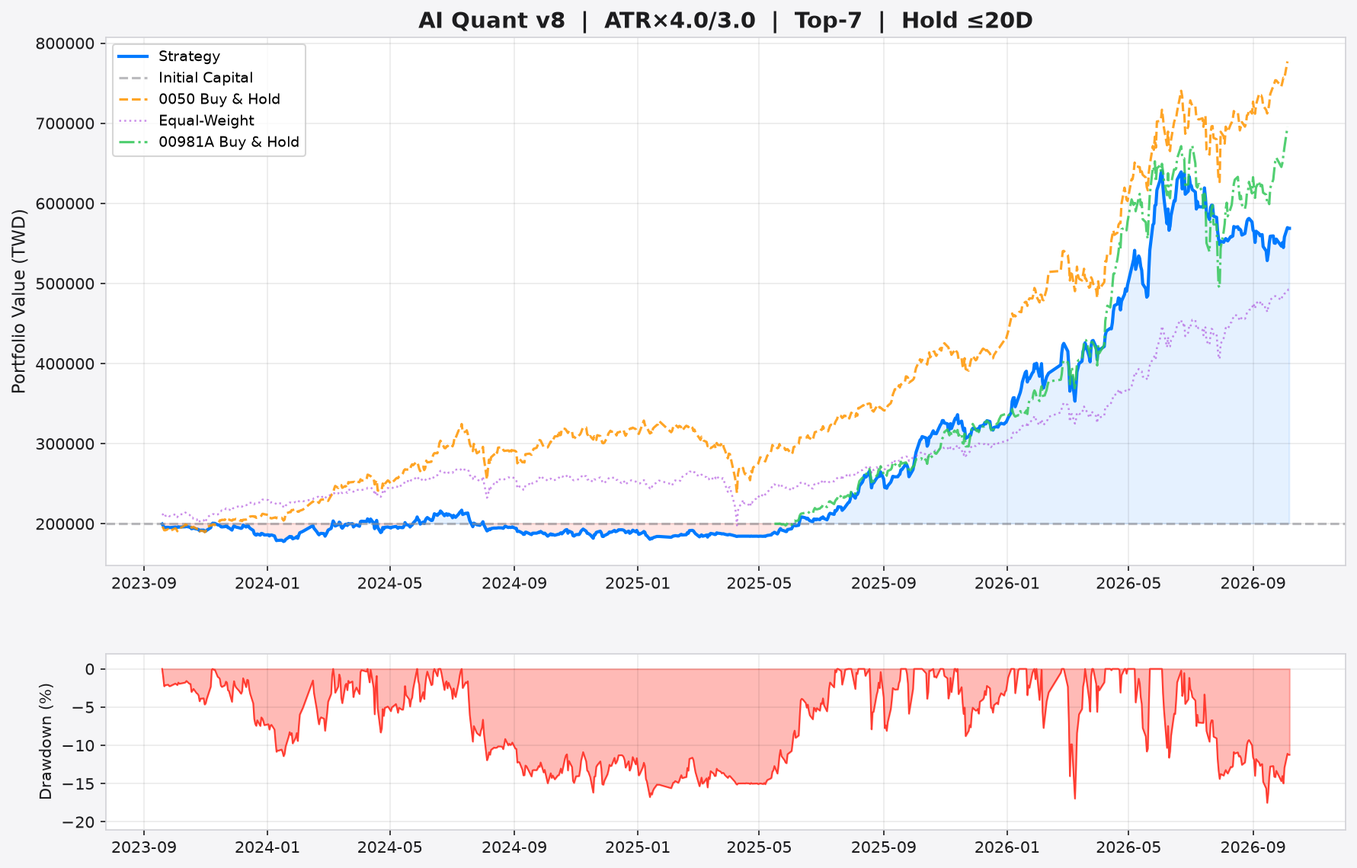
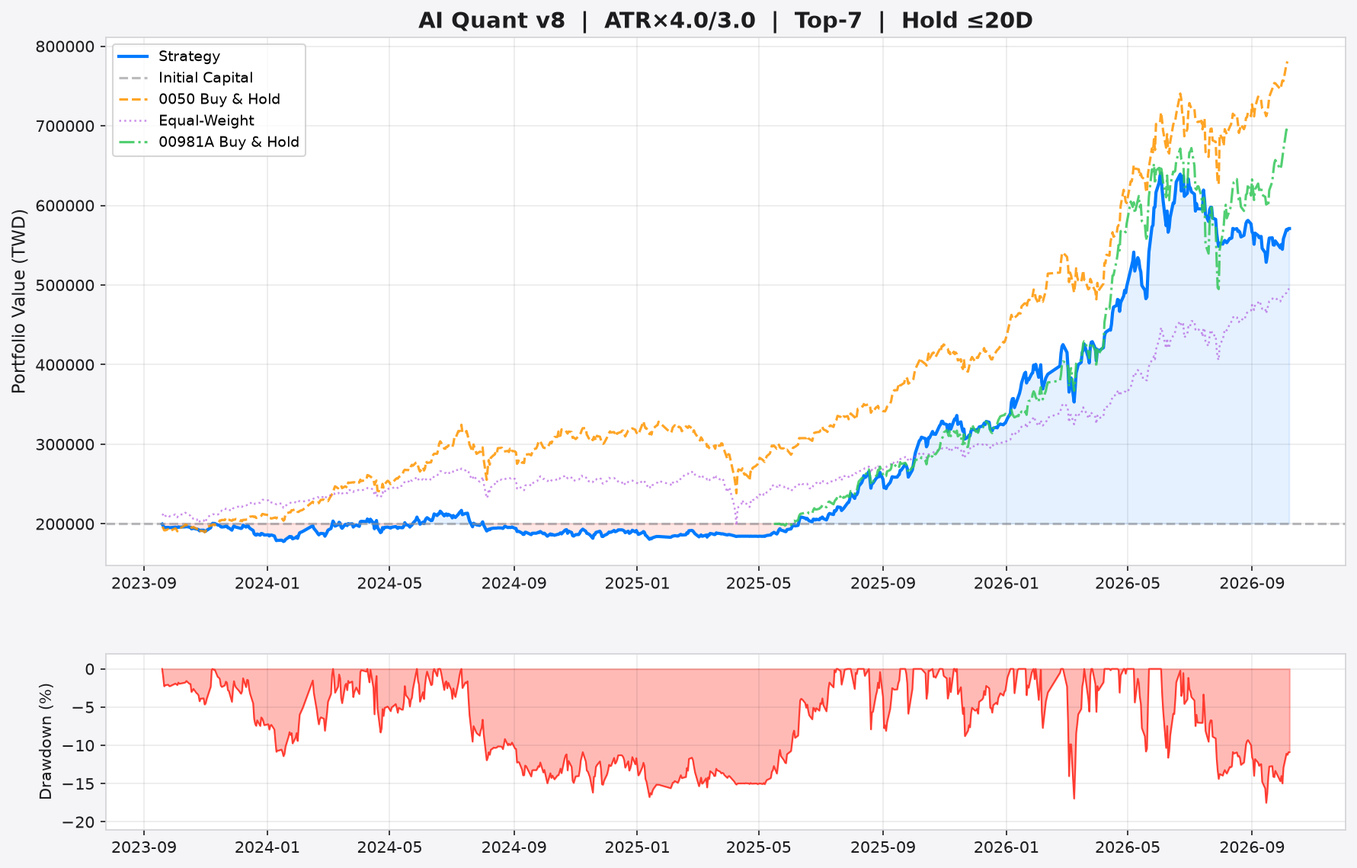
📊 AI Report v8.5 + Paper Trading (2026-10-08)

diff --git a/stock_report.html b/stock_report.html
@@ -3,7 +3,7 @@
 <head>
     <meta charset="utf-8">
     <meta name="viewport" content="width=device-width, initial-scale=1.0">
-    <title>AI 台股量化交易 v8.5 — 2026-10-07</title>
+    <title>AI 台股量化交易 v8.5 — 2026-10-08</title>
     <meta name="description" content="AI 驅動的台股量化交易系統 v8.5，完整風險報告、Benchmark 對比、OCO 智慧掛單建議">
     <script>
         (function() {
@@ -292,7 +292,7 @@
 
     <h1>🎯 AI 台股量化交易 v8.5</h1>
     <p class="subtitle">
-        Event-Driven System &nbsp;|&nbsp; 報表日期: 2026-10-07 &nbsp;|&nbsp;
+        Event-Driven System &nbsp;|&nbsp; 報表日期: 2026-10-08 &nbsp;|&nbsp;
         <span class="config-badge">🛡 ATR×4.0/3.0</span>
         <span class="config-badge">🎯 Top-7</span>
         <span class="config-badge">⏱ 最長 20 天</span>
@@ -303,11 +303,11 @@
     <div class="stats">
         <div class="stat-card">
             <div class="label">策略總報酬率</div>
-            <div class="value" style="color:#00ff00;">+184.4%</div>
+            <div class="value" style="color:#00ff00;">+185.5%</div>
         </div>
         <div class="stat-card">
             <div class="label">年化報酬率</div>
-            <div class="value" style="color:#00ff00;">+42.7%</div>
+            <div class="value" style="color:#00ff00;">+42.9%</div>
         </div>
         <div class="stat-card">
             <div class="label">年化波動率</div>
@@ -315,7 +315,7 @@
         </div>
         <div class="stat-card risk">
             <div class="label">Sharpe Ratio</div>
-            <div class="value" style="color:#00ff00;">1.51</div>
+            <div class="value" style="color:#00ff00;">1.52</div>
         </div>
         <div class="stat-card risk">
             <div class="label">Sortino Ratio</div>
@@ -327,7 +327,7 @@
         </div>
         <div class="stat-card risk">
             <div class="label">Calmar Ratio</div>
-            <div class="value">2.44</div>
+            <div class="value">2.45</div>
         </div>
         <div class="stat-card">
             <div class="label">完成交易數</div>
@@ -370,23 +370,23 @@
             </tr>
         </thead>
         <tbody>
-<tr><td>3443</td><td>4.00</td><td>8375.0</td><td><span style="color:#00ff00; font-weight:bold;">🟢 建議買進 #1</span></td><td><b>停利:</b> <span style="color:#00ff00">9631.2</span> (+15.0%) <br><b>停損:</b> <span style="color:#ff4444">7705.0</span> (-8.0%) <br><b>最晚出場:</b> 2026-11-06</td><td><span style="font-size:0.72rem; color:#888;">歷史 <b>12</b>筆 | 勝率 <b style="color:#00ff00">58%</b> | 均報酬 <b style="color:#00ff00">+2.2%</b></span></td><td><span style="font-size:0.78rem;">⚪ 無資料<br><span style="color:#888; font-weight:bold;">+0.0%</span></span></td><td><span style="font-size:0.78rem;">⚪ 中性</span></td></tr>
-<tr><td>3037</td><td>3.92</td><td>1310.0</td><td><span style="color:#00ff00; font-weight:bold;">🟢 建議買進 #2</span></td><td><b>停利:</b> <span style="color:#00ff00">1506.5</span> (+15.0%) <br><b>停損:</b> <span style="color:#ff4444">1205.2</span> (-8.0%) <br><b>最晚出場:</b> 2026-11-06</td><td><span style="font-size:0.72rem; color:#888;">歷史 <b>13</b>筆 | 勝率 <b style="color:#00ff00">62%</b> | 均報酬 <b style="color:#00ff00">+7.1%</b></span></td><td><span style="font-size:0.78rem;">🟡 小買<br><span style="color:#ffab00; font-weight:bold;">+1.8%</span></span></td><td><span style="font-size:0.78rem;">⚪ 中性</span></td></tr>
-<tr><td>6505</td><td>3.85</td><td>101.5</td><td><span style="color:#00ff00; font-weight:bold;">🟢 建議買進 #3</span></td><td><b>停利:</b> <span style="color:#00ff00">116.7</span> (+15.0%) <br><b>停損:</b> <span style="color:#ff4444">93.4</span> (-8.0%) <br><b>最晚出場:</b> 2026-11-06</td><td><span style="font-size:0.72rem; color:#888;">歷史 <b>3</b>筆 | 勝率 <b style="color:#ff4444">33%</b> | 均報酬 <b style="color:#ff4444">-1.5%</b></span></td><td><span style="font-size:0.78rem;">⚪ 無資料<br><span style="color:#888; font-weight:bold;">+0.0%</span></span></td><td><span style="font-size:0.78rem;">⚪ 中性</span></td></tr>
-<tr><td>1303</td><td>3.83</td><td>293.0</td><td><span style="color:#00ff00; font-weight:bold;">🟢 建議買進 #4</span></td><td><b>停利:</b> <span style="color:#00ff00">336.9</span> (+15.0%) <br><b>停損:</b> <span style="color:#ff4444">269.6</span> (-8.0%) <br><b>最晚出場:</b> 2026-11-06</td><td><span style="font-size:0.72rem; color:#888;">歷史 <b>12</b>筆 | 勝率 <b style="color:#00ff00">75%</b> | 均報酬 <b style="color:#00ff00">+8.5%</b></span></td><td><span style="font-size:0.78rem;">⚪ 無資料<br><span style="color:#888; font-weight:bold;">+0.0%</span></span></td><td><span style="font-size:0.78rem;">⚪ 中性</span></td></tr>
-<tr><td>2404</td><td>3.65</td><td>1335.0</td><td><span style="color:#00ff00; font-weight:bold;">🟢 建議買進 #5</span></td><td><b>停利:</b> <span style="color:#00ff00">1535.2</span> (+15.0%) <br><b>停損:</b> <span style="color:#ff4444">1228.2</span> (-8.0%) <br><b>最晚出場:</b> 2026-11-06</td><td><span style="font-size:0.72rem; color:#888;">歷史 <b>17</b>筆 | 勝率 <b style="color:#00ff00">76%</b> | 均報酬 <b style="color:#00ff00">+5.5%</b></span></td><td><span style="font-size:0.78rem;">🟢 大買<br><span style="color:#00ff00; font-weight:bold;">+2.6%</span></span></td><td><span style="font-size:0.78rem;">⚪ 中性</span></td></tr>
-<tr><td>3529O</td><td>3.62</td><td>3115.0</td><td><span style="color:#00ff00; font-weight:bold;">🟢 建議買進 #6</span></td><td><b>停利:</b> <span style="color:#00ff00">3582.2</span> (+15.0%) <br><b>停損:</b> <span style="color:#ff4444">2865.8</span> (-8.0%) <br><b>最晚出場:</b> 2026-11-06</td><td><span style="font-size:0.72rem; color:#888;">歷史 <b>10</b>筆 | 勝率 <b style="color:#ff4444">40%</b> | 均報酬 <b style="color:#ff4444">-0.4%</b></span></td><td><span style="font-size:0.78rem;">⚪ 無資料<br><span style="color:#888; font-weight:bold;">+0.0%</span></span></td><td><span style="font-size:0.78rem;">⚪ 中性</span></td></tr>
-<tr><td>3711</td><td>3.58</td><td>744.0</td><td><span style="color:#00ff00; font-weight:bold;">🟢 建議買進 #7</span></td><td><b>停利:</b> <span style="color:#00ff00">855.6</span> (+15.0%) <br><b>停損:</b> <span style="color:#ff4444">684.5</span> (-8.0%) <br><b>最晚出場:</b> 2026-11-06</td><td><span style="font-size:0.72rem; color:#888;">歷史 <b>5</b>筆 | 勝率 <b style="color:#00ff00">60%</b> | 均報酬 <b style="color:#00ff00">+0.6%</b></span></td><td><span style="font-size:0.78rem;">🟡 小買<br><span style="color:#ffab00; font-weight:bold;">+1.2%</span></span></td><td><span style="font-size:0.78rem;">⚪ 中性</span></td></tr>
-<tr style="opacity:0.6"><td>3044</td><td>3.53</td><td>579.0</td><td><span style="color:#ffab00">🟡 候選 (超出 Top-K)</span></td><td>-</td><td><span style="font-size:0.72rem; color:#888;">勝率 <b style="color:#00ff00">50%</b></span></td><td><span style="font-size:0.72rem;">⚪ 無資料<br><span style="color:#888">+0.0%</span></span></td><td><span style="font-size:0.72rem;">⚪ 中性</span></td></tr>
-<tr style="opacity:0.6"><td>2368</td><td>3.47</td><td>1260.0</td><td><span style="color:#ffab00">🟡 候選 (超出 Top-K)</span></td><td>-</td><td><span style="font-size:0.72rem; color:#888;">勝率 <b style="color:#ff4444">47%</b></span></td><td><span style="font-size:0.72rem;">🔴 大賣<br><span style="color:#ff4444">-3.3%</span></span></td><td><span style="font-size:0.72rem;">⚪ 中性</span></td></tr>
-<tr style="opacity:0.6"><td>3035</td><td>3.45</td><td>210.5</td><td><span style="color:#ffab00">🟡 候選 (超出 Top-K)</span></td><td>-</td><td><span style="font-size:0.72rem; color:#888;">勝率 <b style="color:#ff4444">0%</b></span></td><td><span style="font-size:0.72rem;">🟢 大買<br><span style="color:#00ff00">+5.0%</span></span></td><td><span style="font-size:0.72rem;">⚪ 中性</span></td></tr>
-<tr style="opacity:0.6"><td>2308</td><td>3.22</td><td>2050.0</td><td><span style="color:#ffab00">🟡 候選 (超出 Top-K)</span></td><td>-</td><td><span style="font-size:0.72rem; color:#888;">勝率 <b style="color:#00ff00">70%</b></span></td><td><span style="font-size:0.72rem;">⚪ 無資料<br><span style="color:#888">+0.0%</span></span></td><td><span style="font-size:0.72rem;">⚪ 中性</span></td></tr>
-<tr style="opacity:0.6"><td>6239</td><td>3.08</td><td>310.5</td><td><span style="color:#ffab00">🟡 候選 (超出 Top-K)</span></td><td>-</td><td><span style="font-size:0.72rem; color:#888;">勝率 <b style="color:#00ff00">55%</b></span></td><td><span style="font-size:0.72rem;">⚪ 無資料<br><span style="color:#888">+0.0%</span></span></td><td><span style="font-size:0.72rem;">⚪ 中性</span></td></tr>
-<tr style="opacity:0.4"><td>2412</td><td>1.98</td><td>145.5</td><td><span style="color:#aaaaaa">⚪ 觀望 (評分不足)</span></td><td>-</td><td>-</td><td style="color:#555">-</td><td style="color:#555">-</td></tr>
-<tr style="opacity:0.4"><td>2303</td><td>1.90</td><td>147.5</td><td><span style="color:#aaaaaa">⚪ 觀望 (評分不足)</span></td><td>-</td><td>-</td><td style="color:#555">-</td><td style="color:#555">-</td></tr>
-<tr style="opacity:0.4"><td>2892</td><td>1.90</td><td>38.5</td><td><span style="color:#aaaaaa">⚪ 觀望 (評分不足)</span></td><td>-</td><td>-</td><td style="color:#555">-</td><td style="color:#555">-</td></tr>
-<tr style="opacity:0.4"><td>1301</td><td>1.87</td><td>68.6</td><td><span style="color:#aaaaaa">⚪ 觀望 (評分不足)</span></td><td>-</td><td>-</td><td style="color:#555">-</td><td style="color:#555">-</td></tr>
-<tr style="opacity:0.4"><td>2883</td><td>1.73</td><td>37.7</td><td><span style="color:#aaaaaa">⚪ 觀望 (評分不足)</span></td><td>-</td><td>-</td><td style="color:#555">-</td><td style="color:#555">-</td></tr>
+<tr><td>3443</td><td>4.00</td><td>8460.0</td><td><span style="color:#00ff00; font-weight:bold;">🟢 建議買進 #1</span></td><td><b>停利:</b> <span style="color:#00ff00">9729.0</span> (+15.0%) <br><b>停損:</b> <span style="color:#ff4444">7783.2</span> (-8.0%) <br><b>最晚出場:</b> 2026-11-09</td><td><span style="font-size:0.72rem; color:#888;">歷史 <b>12</b>筆 | 勝率 <b style="color:#00ff00">58%</b> | 均報酬 <b style="color:#00ff00">+2.2%</b></span></td><td><span style="font-size:0.78rem;">⚪ 無資料<br><span style="color:#888; font-weight:bold;">+0.0%</span></span></td><td><span style="font-size:0.78rem;">⚪ 中性</span></td></tr>
+<tr><td>3037</td><td>3.90</td><td>1305.0</td><td><span style="color:#00ff00; font-weight:bold;">🟢 建議買進 #2</span></td><td><b>停利:</b> <span style="color:#00ff00">1500.7</span> (+15.0%) <br><b>停損:</b> <span style="color:#ff4444">1200.6</span> (-8.0%) <br><b>最晚出場:</b> 2026-11-09</td><td><span style="font-size:0.72rem; color:#888;">歷史 <b>13</b>筆 | 勝率 <b style="color:#00ff00">62%</b> | 均報酬 <b style="color:#00ff00">+7.1%</b></span></td><td><span style="font-size:0.78rem;">🟡 小買<br><span style="color:#ffab00; font-weight:bold;">+1.8%</span></span></td><td><span style="font-size:0.78rem;">⚪ 中性</span></td></tr>
+<tr><td>6505</td><td>3.87</td><td>107.0</td><td><span style="color:#00ff00; font-weight:bold;">🟢 建議買進 #3</span></td><td><b>停利:</b> <span style="color:#00ff00">123.0</span> (+15.0%) <br><b>停損:</b> <span style="color:#ff4444">98.4</span> (-8.0%) <br><b>最晚出場:</b> 2026-11-09</td><td><span style="font-size:0.72rem; color:#888;">歷史 <b>3</b>筆 | 勝率 <b style="color:#ff4444">33%</b> | 均報酬 <b style="color:#ff4444">-1.5%</b></span></td><td><span style="font-size:0.78rem;">⚪ 無資料<br><span style="color:#888; font-weight:bold;">+0.0%</span></span></td><td><span style="font-size:0.78rem;">⚪ 中性</span></td></tr>
+<tr><td>1303</td><td>3.83</td><td>314.0</td><td><span style="color:#00ff00; font-weight:bold;">🟢 建議買進 #4</span></td><td><b>停利:</b> <span style="color:#00ff00">361.1</span> (+15.0%) <br><b>停損:</b> <span style="color:#ff4444">288.9</span> (-8.0%) <br><b>最晚出場:</b> 2026-11-09</td><td><span style="font-size:0.72rem; color:#888;">歷史 <b>12</b>筆 | 勝率 <b style="color:#00ff00">75%</b> | 均報酬 <b style="color:#00ff00">+8.5%</b></span></td><td><span style="font-size:0.78rem;">⚪ 無資料<br><span style="color:#888; font-weight:bold;">+0.0%</span></span></td><td><span style="font-size:0.78rem;">⚪ 中性</span></td></tr>
+<tr><td>3044</td><td>3.68</td><td>582.0</td><td><span style="color:#00ff00; font-weight:bold;">🟢 建議買進 #5</span></td><td><b>停利:</b> <span style="color:#00ff00">669.3</span> (+15.0%) <br><b>停損:</b> <span style="color:#ff4444">535.4</span> (-8.0%) <br><b>最晚出場:</b> 2026-11-09</td><td><span style="font-size:0.72rem; color:#888;">歷史 <b>4</b>筆 | 勝率 <b style="color:#00ff00">50%</b> | 均報酬 <b style="color:#ff4444">-0.4%</b></span></td><td><span style="font-size:0.78rem;">⚪ 無資料<br><span style="color:#888; font-weight:bold;">+0.0%</span></span></td><td><span style="font-size:0.78rem;">⚪ 中性</span></td></tr>
+<tr><td>2404</td><td>3.67</td><td>1330.0</td><td><span style="color:#00ff00; font-weight:bold;">🟢 建議買進 #6</span></td><td><b>停利:</b> <span style="color:#00ff00">1529.5</span> (+15.0%) <br><b>停損:</b> <span style="color:#ff4444">1223.6</span> (-8.0%) <br><b>最晚出場:</b> 2026-11-09</td><td><span style="font-size:0.72rem; color:#888;">歷史 <b>17</b>筆 | 勝率 <b style="color:#00ff00">76%</b> | 均報酬 <b style="color:#00ff00">+5.5%</b></span></td><td><span style="font-size:0.78rem;">🟢 大買<br><span style="color:#00ff00; font-weight:bold;">+2.6%</span></span></td><td><span style="font-size:0.78rem;">⚪ 中性</span></td></tr>
+<tr><td>3711</td><td>3.50</td><td>732.0</td><td><span style="color:#00ff00; font-weight:bold;">🟢 建議買進 #7</span></td><td><b>停利:</b> <span style="color:#00ff00">841.8</span> (+15.0%) <br><b>停損:</b> <span style="color:#ff4444">673.4</span> (-8.0%) <br><b>最晚出場:</b> 2026-11-09</td><td><span style="font-size:0.72rem; color:#888;">歷史 <b>5</b>筆 | 勝率 <b style="color:#00ff00">60%</b> | 均報酬 <b style="color:#00ff00">+0.6%</b></span></td><td><span style="font-size:0.78rem;">🟡 小買<br><span style="color:#ffab00; font-weight:bold;">+1.2%</span></span></td><td><span style="font-size:0.78rem;">⚪ 中性</span></td></tr>
+<tr style="opacity:0.6"><td>1301</td><td>3.50</td><td>75.4</td><td><span style="color:#ffab00">🟡 候選 (超出 Top-K)</span></td><td>-</td><td><span style="font-size:0.72rem; color:#888;">勝率 <b style="color:#ff4444">0%</b></span></td><td><span style="font-size:0.72rem;">⚪ 無資料<br><span style="color:#888">+0.0%</span></span></td><td><span style="font-size:0.72rem;">⚪ 中性</span></td></tr>
+<tr style="opacity:0.6"><td>3035</td><td>3.48</td><td>209.0</td><td><span style="color:#ffab00">🟡 候選 (超出 Top-K)</span></td><td>-</td><td><span style="font-size:0.72rem; color:#888;">勝率 <b style="color:#ff4444">0%</b></span></td><td><span style="font-size:0.72rem;">🟢 大買<br><span style="color:#00ff00">+5.0%</span></span></td><td><span style="font-size:0.72rem;">⚪ 中性</span></td></tr>
+<tr style="opacity:0.6"><td>2368</td><td>3.47</td><td>1245.0</td><td><span style="color:#ffab00">🟡 候選 (超出 Top-K)</span></td><td>-</td><td><span style="font-size:0.72rem; color:#888;">勝率 <b style="color:#ff4444">47%</b></span></td><td><span style="font-size:0.72rem;">🔴 大賣<br><span style="color:#ff4444">-3.3%</span></span></td><td><span style="font-size:0.72rem;">⚪ 中性</span></td></tr>
+<tr style="opacity:0.6"><td>2327</td><td>3.05</td><td>647.0</td><td><span style="color:#ffab00">🟡 候選 (超出 Top-K)</span></td><td>-</td><td><span style="font-size:0.72rem; color:#888;">勝率 <b style="color:#00ff00">70%</b></span></td><td><span style="font-size:0.72rem;">🟡 小買<br><span style="color:#888">+1.2%</span></span></td><td><span style="font-size:0.72rem;">⚪ 中性</span></td></tr>
+<tr style="opacity:0.6"><td>2449</td><td>2.97</td><td>299.5</td><td><span style="color:#ffab00">🟡 候選 (超出 Top-K)</span></td><td>-</td><td><span style="font-size:0.72rem; color:#888;">勝率 <b style="color:#00ff00">50%</b></span></td><td><span style="font-size:0.72rem;">🟡 小買<br><span style="color:#888">+1.4%</span></span></td><td><span style="font-size:0.72rem;">⚪ 中性</span></td></tr>
+<tr style="opacity:0.4"><td>2379</td><td>1.93</td><td>741.0</td><td><span style="color:#aaaaaa">⚪ 觀望 (評分不足)</span></td><td>-</td><td>-</td><td style="color:#555">-</td><td style="color:#555">-</td></tr>
+<tr style="opacity:0.4"><td>2454</td><td>1.92</td><td>4835.0</td><td><span style="color:#aaaaaa">⚪ 觀望 (評分不足)</span></td><td>-</td><td>-</td><td style="color:#555">-</td><td style="color:#555">-</td></tr>
+<tr style="opacity:0.4"><td>2412</td><td>1.77</td><td>145.5</td><td><span style="color:#aaaaaa">⚪ 觀望 (評分不足)</span></td><td>-</td><td>-</td><td style="color:#555">-</td><td style="color:#555">-</td></tr>
+<tr style="opacity:0.4"><td>2892</td><td>1.72</td><td>38.9</td><td><span style="color:#aaaaaa">⚪ 觀望 (評分不足)</span></td><td>-</td><td>-</td><td style="color:#555">-</td><td style="color:#555">-</td></tr>
+<tr style="opacity:0.4"><td>2609</td><td>1.65</td><td>59.1</td><td><span style="color:#aaaaaa">⚪ 觀望 (評分不足)</span></td><td>-</td><td>-</td><td style="color:#555">-</td><td style="color:#555">-</td></tr>
 
         </tbody>
     </table>
@@ -461,7 +461,7 @@
     <div class="stats">
         <div class="stat-card benchmark">
             <div class="label">0050 年化報酬</div>
-            <div class="value">+53.4%</div>
+            <div class="value">+53.6%</div>
         </div>
         <div class="stat-card benchmark">
             <div class="label">0050 最大回撤</div>
@@ -469,7 +469,7 @@
         </div>
         <div class="stat-card benchmark">
             <div class="label">0050 Sharpe</div>
-            <div class="value">1.83</div>
+            <div class="value">1.84</div>
         </div>
         <div class="stat-card" style="border-left-color:#ff4444">
             <div class="label">超額年化報酬 (α)</div>
@@ -480,7 +480,7 @@
     <div class="stats">
         <div class="stat-card benchmark">
             <div class="label">00981A 年化報酬</div>
-            <div class="value">+151.1%</div>
+            <div class="value">+150.2%</div>
         </div>
         <div class="stat-card benchmark">
             <div class="label">00981A 最大回撤</div>
@@ -488,11 +488,11 @@
         </div>
         <div class="stat-card benchmark">
             <div class="label">00981A Sharpe</div>
-            <div class="value">2.80</div>
+            <div class="value">2.79</div>
         </div>
         <div class="stat-card" style="border-left-color:#ff4444">
             <div class="label">超額 vs 00981A (共存期)</div>
-            <div class="value" style="color:#ff4444">-46.9%</div>
+            <div class="value" style="color:#ff4444">-46.8%</div>
         </div>
     </div>
     <img src="backtest_chart.png" alt="AI Quantitative Backtest Equity Curve with Benchmark">
@@ -507,19 +507,19 @@
         </div>
         <div class="stat-card benchmark">
             <div class="label">0050 近 5 日</div>
-            <div class="value" style="color:#00ff00">+4.2%</div>
+            <div class="value" style="color:#00ff00">+4.0%</div>
         </div>
         <div class="stat-card benchmark">
             <div class="label">0050 近 20 日</div>
-            <div class="value" style="color:#00ff00">+7.5%</div>
+            <div class="value" style="color:#00ff00">+6.0%</div>
         </div>
         <div class="stat-card benchmark">
             <div class="label">0050 近 60 日</div>
-            <div class="value" style="color:#00ff00">+10.3%</div>
+            <div class="value" style="color:#00ff00">+10.6%</div>
         </div>
         <div class="stat-card risk">
             <div class="label">市場波動率 (20D)</div>
-            <div class="value">16.9%</div>
+            <div class="value">16.3%</div>
         </div>
     </div>
 
@@ -529,7 +529,7 @@
     <div class="stats">
         <div class="stat-card risk">
             <div class="label">目前回撤</div>
-            <div class="value" style="color:#ff4444">-11.2%</div>
+            <div class="value" style="color:#ff4444">-10.9%</div>
         </div>
         <div class="stat-card">
             <div class="label">權益最高點</div>
@@ -543,7 +543,7 @@
     <table>
         <thead><tr><th>#</th><th>開始日</th><th>恢復日</th><th>最大深度</th><th>持續天數</th></tr></thead>
         <tbody>
-<tr><td>#1</td><td>2026-06-23</td><td>2026-10-07</td><td style="color:#ff4444; font-weight:bold">-17.5%</td><td>106 天</td></tr>
+<tr><td>#1</td><td>2026-06-23</td><td>2026-10-08</td><td style="color:#ff4444; font-weight:bold">-17.5%</td><td>107 天</td></tr>
 <tr><td>#2</td><td>2026-03-02</td><td>2026-03-19</td><td style="color:#ff4444; font-weight:bold">-17.0%</td><td>17 天</td></tr>
 <tr><td>#3</td><td>2024-07-12</td><td>2025-07-15</td><td style="color:#ff4444; font-weight:bold">-16.8%</td><td>368 天</td></tr>
 <tr><td>#4</td><td>2026-06-04</td><td>2026-06-22</td><td style="color:#ff4444; font-weight:bold">-11.6%</td><td>18 天</td></tr>
@@ -558,7 +558,7 @@
     <div class="stats">
         <div class="stat-card" style="border-left-color:#ff4444">
             <div class="label">近 60 日 Sharpe</div>
-            <div class="value" style="color:#ff4444">-0.71</div>
+            <div class="value" style="color:#ff4444">-0.65</div>
         </div>
         <div class="stat-card">
             <div class="label">歷史平均 Sharpe</div>
@@ -723,7 +723,7 @@
 <tr style="background:rgba(255,68,68,0.30)"><td>2026-07</td><td style="color:#ff4444; font-weight:bold">-12.7%</td></tr>
 <tr style="background:rgba(0,255,0,0.13)"><td>2026-08</td><td style="color:#00ff00; font-weight:bold">+4.4%</td></tr>
 <tr style="background:rgba(255,68,68,0.13)"><td>2026-09</td><td style="color:#ff4444; font-weight:bold">-4.5%</td></tr>
-<tr style="background:rgba(0,255,0,0.10)"><td>2026-10</td><td style="color:#00ff00; font-weight:bold">+3.2%</td></tr>
+<tr style="background:rgba(0,255,0,0.11)"><td>2026-10</td><td style="color:#00ff00; font-weight:bold">+3.6%</td></tr>
 
         </tbody>
     </table>

diff --git a/paper_trading.html b/paper_trading.html
@@ -3,7 +3,7 @@
 <head>
     <meta charset="utf-8">
     <meta name="viewport" content="width=device-width, initial-scale=1.0">
-    <title>Paper Trading v8.5 — 2026-10-07</title>
+    <title>Paper Trading v8.5 — 2026-10-08</title>
     <meta name="description" content="TW Stocker v8.5 Paper Trading 實時績效追蹤">
     <script src="https://cdn.jsdelivr.net/npm/chart.js@4"></script>
     <style>
@@ -92,21 +92,21 @@
     <h1>📈 Paper Trading v8.5</h1>
     <p class="subtitle">
         <span class="badge badge-live">● LIVE</span>
-        起始日 2026-04-22 | 更新 2026-10-07 | 初始資金 200,000 | 保留本金 10%，其餘投入
+        起始日 2026-04-22 | 更新 2026-10-08 | 初始資金 200,000 | 保留本金 10%，其餘投入
     </p>
 
     <div class="metrics">
         <div class="metric">
             <div class="label">總權益</div>
-            <div class="value green">254,048</div>
+            <div class="value green">259,636</div>
         </div>
         <div class="metric">
             <div class="label">總報酬</div>
-            <div class="value green">+27.0%</div>
+            <div class="value green">+29.8%</div>
         </div>
         <div class="metric">
             <div class="label">年化報酬</div>
-            <div class="value green">+58.2%</div>
+            <div class="value green">+63.7%</div>
         </div>
         <div class="metric">
             <div class="label">最大回撤</div>
@@ -146,7 +146,7 @@
             <td>43.5</td>
             <td>34.8</td>
             <td>2026-09-15</td>
-            <td>16天</td>
+            <td>17天</td>
         </tr>
         <tr>
             <td><b>3443</b></td>
@@ -154,7 +154,7 @@
             <td>10208.0</td>
             <td>7262.8</td>
             <td>2026-09-29</td>
-            <td>6天</td>
+            <td>7天</td>
         </tr>
         <tr>
             <td><b>2454</b></td>
@@ -162,7 +162,7 @@
             <td>6209.0</td>
             <td>4592.0</td>
             <td>2026-09-29</td>
-            <td>6天</td>
+            <td>7天</td>
         </tr>
         <tr>
             <td><b>2303</b></td>
@@ -170,7 +170,7 @@
             <td>182.6</td>
             <td>131.7</td>
             <td>2026-09-30</td>
-            <td>5天</td>
+            <td>6天</td>
         </tr>
         <tr>
             <td><b>3037</b></td>
@@ -178,7 +178,7 @@
             <td>1558.4</td>
             <td>1150.0</td>
             <td>2026-10-06</td>
-            <td>1天</td>
+            <td>2天</td>
         </tr>
         <tr>
             <td><b>1303</b></td>
@@ -186,7 +186,7 @@
             <td>328.9</td>
             <td>263.1</td>
             <td>2026-10-07</td>
-            <td>0天</td>
+            <td>1天</td>
         </tr>
         <tr>
             <td><b>6505</b></td>
@@ -194,7 +194,7 @@
             <td>113.4</td>
             <td>90.7</td>
             <td>2026-10-07</td>
-            <td>0天</td>
+            <td>1天</td>
         </tr>
         </table>
     </div>
@@ -206,52 +206,52 @@
             
         <tr>
             <td><b>3443</b></td>
-            <td>8375.0</td>
-            <td>9631.2</td>
-            <td>7705.0</td>
-            <td>2026-10-08</td>
+            <td>8460.0</td>
+            <td>9729.0</td>
+            <td>7783.2</td>
+            <td>2026-10-12</td>
         </tr>
         <tr>
             <td><b>3037</b></td>
-            <td>1310.0</td>
-            <td>1506.5</td>
-            <td>1205.2</td>
-            <td>2026-10-08</td>
+            <td>1305.0</td>
+            <td>1500.8</td>
+            <td>1200.6</td>
+            <td>2026-10-12</td>
         </tr>
         <tr>
             <td><b>6505</b></td>
-            <td>101.5</td>
-            <td>116.7</td>
-            <td>93.4</td>
-            <td>2026-10-08</td>
+            <td>107.0</td>
+            <td>123.0</td>
+            <td>98.4</td>
+            <td>2026-10-12</td>
         </tr>
         <tr>
             <td><b>1303</b></td>
-            <td>293.0</td>
-            <td>336.9</td>
-            <td>269.6</td>
-            <td>2026-10-08</td>
+            <td>314.0</td>
+            <td>361.1</td>
+            <td>288.9</td>
+            <td>2026-10-12</td>
+        </tr>
+        <tr>
+            <td><b>3044</b></td>
+            <td>582.0</td>
+            <td>669.3</td>
+            <td>535.4</td>
+            <td>2026-10-12</td>
         </tr>
         <tr>
             <td><b>2404</b></td>
-            <td>1335.0</td>
-            <td>1535.2</td>
-            <td>1228.2</td>
-            <td>2026-10-08</td>
-        </tr>
-        <tr>
-            <td><b>3529O</b></td>
-            <td>3115.0</td>
-            <td>3582.2</td>
-            <td>2865.8</td>
-            <td>2026-10-08</td>
+            <td>1330.0</td>
+            <td>1529.5</td>
+            <td>1223.6</td>
+            <td>2026-10-12</td>
         </tr>
         <tr>
             <td><b>3711</b></td>
-            <td>744.0</td>
-            <td>855.6</td>
-            <td>684.5</td>
-            <td>2026-10-08</td>
+            <td>732.0</td>
+            <td>841.8</td>
+            <td>673.4</td>
+            <td>2026-10-12</td>
         </tr>
         </table>
     </div>
@@ -545,10 +545,10 @@ const ctx = document.getElementById('equityChart').getContext('2d');
 new Chart(ctx, {
     type: 'line',
     data: {
-        labels: ["2026-04-22", "2026-04-23", "2026-04-24", "2026-04-27", "2026-04-29", "2026-04-30", "2026-05-01", "2026-05-04", "2026-05-05", "2026-05-06", "2026-05-07", "2026-05-08", "2026-05-11", "2026-05-12", "2026-05-13", "2026-05-14", "2026-05-15", "2026-05-18", "2026-05-19", "2026-05-20", "2026-05-21", "2026-05-22", "2026-05-25", "2026-05-26", "2026-05-29", "2026-06-02", "2026-06-03", "2026-06-04", "2026-06-05", "2026-06-08", "2026-06-09", "2026-06-10", "2026-06-11", "2026-06-12", "2026-06-15", "2026-06-16", "2026-06-17", "2026-06-18", "2026-06-19", "2026-06-22", "2026-06-23", "2026-06-24", "2026-06-25", "2026-06-26", "2026-06-29", "2026-06-30", "2026-07-01", "2026-07-02", "2026-07-03", "2026-07-06", "2026-07-07", "2026-07-08", "2026-07-09", "2026-07-10", "2026-07-13", "2026-07-14", "2026-07-15", "2026-07-16", "2026-07-17", "2026-07-20", "2026-07-21", "2026-07-22", "2026-07-23", "2026-07-24", "2026-07-27", "2026-07-28", "2026-07-29", "2026-07-30", "2026-07-31", "2026-08-03", "2026-08-04", "2026-08-05", "2026-08-06", "2026-08-07", "2026-08-10", "2026-08-11", "2026-08-12", "2026-08-13", "2026-08-14", "2026-08-17", "2026-08-18", "2026-08-19", "2026-08-20", "2026-08-21", "2026-08-24", "2026-08-25", "2026-08-26", "2026-08-27", "2026-08-28", "2026-08-31", "2026-09-01", "2026-09-02", "2026-09-03", "2026-09-04", "2026-09-07", "2026-09-08", "2026-09-09", "2026-09-10", "2026-09-11", "2026-09-14", "2026-09-15", "2026-09-16", "2026-09-17", "2026-09-18", "2026-09-21", "2026-09-22", "2026-09-23", "2026-09-24", "2026-09-25", "2026-09-28", "2026-09-29", "2026-09-30", "2026-10-01", "2026-10-02", "2026-10-05", "2026-10-06", "2026-10-07"],
+        labels: ["2026-04-22", "2026-04-23", "2026-04-24", "2026-04-27", "2026-04-29", "2026-04-30", "2026-05-01", "2026-05-04", "2026-05-05", "2026-05-06", "2026-05-07", "2026-05-08", "2026-05-11", "2026-05-12", "2026-05-13", "2026-05-14", "2026-05-15", "2026-05-18", "2026-05-19", "2026-05-20", "2026-05-21", "2026-05-22", "2026-05-25", "2026-05-26", "2026-05-29", "2026-06-02", "2026-06-03", "2026-06-04", "2026-06-05", "2026-06-08", "2026-06-09", "2026-06-10", "2026-06-11", "2026-06-12", "2026-06-15", "2026-06-16", "2026-06-17", "2026-06-18", "2026-06-19", "2026-06-22", "2026-06-23", "2026-06-24", "2026-06-25", "2026-06-26", "2026-06-29", "2026-06-30", "2026-07-01", "2026-07-02", "2026-07-03", "2026-07-06", "2026-07-07", "2026-07-08", "2026-07-09", "2026-07-10", "2026-07-13", "2026-07-14", "2026-07-15", "2026-07-16", "2026-07-17", "2026-07-20", "2026-07-21", "2026-07-22", "2026-07-23", "2026-07-24", "2026-07-27", "2026-07-28", "2026-07-29", "2026-07-30", "2026-07-31", "2026-08-03", "2026-08-04", "2026-08-05", "2026-08-06", "2026-08-07", "2026-08-10", "2026-08-11", "2026-08-12", "2026-08-13", "2026-08-14", "2026-08-17", "2026-08-18", "2026-08-19", "2026-08-20", "2026-08-21", "2026-08-24", "2026-08-25", "2026-08-26", "2026-08-27", "2026-08-28", "2026-08-31", "2026-09-01", "2026-09-02", "2026-09-03", "2026-09-04", "2026-09-07", "2026-09-08", "2026-09-09", "2026-09-10", "2026-09-11", "2026-09-14", "2026-09-15", "2026-09-16", "2026-09-17", "2026-09-18", "2026-09-21", "2026-09-22", "2026-09-23", "2026-09-24", "2026-09-25", "2026-09-28", "2026-09-29", "2026-09-30", "2026-10-01", "2026-10-02", "2026-10-05", "2026-10-06", "2026-10-07", "2026-10-08"],
         datasets: [{
             label: 'Paper Trading 權益',
-            data: [198952.0, 198438.0, 203189.0, 204266.0, 202703.0, 207261.0, 207261.0, 209021.0, 209122.0, 210225.0, 213939.0, 211340.0, 217936.0, 218528.0, 216129.0, 216592.0, 213700.0, 216976.0, 214891.0, 214560.0, 221605.0, 224953.0, 228551.0, 229268.0, 234623.0, 246313.0, 244921.0, 243850.0, 244318.0, 242242.0, 244315.0, 242167.0, 242815.0, 244222.0, 246148.0, 246352.0, 254441.0, 271189.0, 271189.0, 279092.0, 269516.0, 274516.0, 281521.0, 265409.0, 269474.0, 282169.0, 282916.0, 286245.0, 287001.0, 282088.0, 265765.0, 267788.0, 273433.0, 273433.0, 269891.0, 267803.0, 286781.0, 280120.0, 263260.0, 259587.0, 273080.0, 276565.0, 276922.0, 267215.0, 261436.0, 248786.0, 244077.0, 237034.0, 245648.0, 241912.0, 244439.0, 250044.0, 245849.0, 247377.0, 250059.0, 251276.0, 254977.0, 263971.0, 266066.0, 263111.0, 260691.0, 261781.0, 258782.0, 253296.0, 254424.0, 259169.0, 266222.0, 266222.0, 265532.0, 267519.0, 259542.0, 258382.0, 250447.0, 258293.0, 253827.0, 248207.0, 248522.0, 249627.0, 247177.0, 247177.0, 239820.0, 242722.0, 250636.0, 254025.0, 254025.0, 250574.0, 249585.0, 252220.0, 252220.0, 252220.0, 247959.0, 248193.0, 250069.0, 249083.0, 254152.0, 255071.0, 254048.0],
+            data: [198952.0, 198438.0, 203189.0, 204266.0, 202703.0, 207261.0, 207261.0, 209021.0, 209122.0, 210225.0, 213939.0, 211340.0, 217936.0, 218528.0, 216129.0, 216592.0, 213700.0, 216976.0, 214891.0, 214560.0, 221605.0, 224953.0, 228551.0, 229268.0, 234623.0, 246313.0, 244921.0, 243850.0, 244318.0, 242242.0, 244315.0, 242167.0, 242815.0, 244222.0, 246148.0, 246352.0, 254441.0, 271189.0, 271189.0, 279092.0, 269516.0, 274516.0, 281521.0, 265409.0, 269474.0, 282169.0, 282916.0, 286245.0, 287001.0, 282088.0, 265765.0, 267788.0, 273433.0, 273433.0, 269891.0, 267803.0, 286781.0, 280120.0, 263260.0, 259587.0, 273080.0, 276565.0, 276922.0, 267215.0, 261436.0, 248786.0, 244077.0, 237034.0, 245648.0, 241912.0, 244439.0, 250044.0, 245849.0, 247377.0, 250059.0, 251276.0, 254977.0, 263971.0, 266066.0, 263111.0, 260691.0, 261781.0, 258782.0, 253296.0, 254424.0, 259169.0, 266222.0, 266222.0, 265532.0, 267519.0, 259542.0, 258382.0, 250447.0, 258293.0, 253827.0, 248207.0, 248522.0, 249627.0, 247177.0, 247177.0, 239820.0, 242722.0, 250636.0, 254025.0, 254025.0, 250574.0, 249585.0, 252220.0, 252220.0, 252220.0, 247959.0, 248193.0, 250069.0, 249083.0, 254152.0, 255071.0, 254048.0, 259636.0],
             borderColor: '#60a5fa',
             backgroundColor: 'rgba(96, 165, 250, 0.1)',
             fill: true,
@@ -557,7 +557,7 @@ new Chart(ctx, {
             borderWidth: 2,
         }, {
             label: '初始資金',
-            data: [200000, 200000, 200000, 200000, 200000, 200000, 200000, 200000, 200000, 200000, 200000, 200000, 200000, 200000, 200000, 200000, 200000, 200000, 200000, 200000, 200000, 200000, 200000, 200000, 200000, 200000, 200000, 200000, 200000, 200000, 200000, 200000, 200000, 200000, 200000, 200000, 200000, 200000, 200000, 200000, 200000, 200000, 200000, 200000, 200000, 200000, 200000, 200000, 200000, 200000, 200000, 200000, 200000, 200000, 200000, 200000, 200000, 200000, 200000, 200000, 200000, 200000, 200000, 200000, 200000, 200000, 200000, 200000, 200000, 200000, 200000, 200000, 200000, 200000, 200000, 200000, 200000, 200000, 200000, 200000, 200000, 200000, 200000, 200000, 200000, 200000, 200000, 200000, 200000, 200000, 200000, 200000, 200000, 200000, 200000, 200000, 200000, 200000, 200000, 200000, 200000, 200000, 200000, 200000, 200000, 200000, 200000, 200000, 200000, 200000, 200000, 200000, 200000, 200000, 200000, 200000, 200000],
+            data: [200000, 200000, 200000, 200000, 200000, 200000, 200000, 200000, 200000, 200000, 200000, 200000, 200000, 200000, 200000, 200000, 200000, 200000, 200000, 200000, 200000, 200000, 200000, 200000, 200000, 200000, 200000, 200000, 200000, 200000, 200000, 200000, 200000, 200000, 200000, 200000, 200000, 200000, 200000, 200000, 200000, 200000, 200000, 200000, 200000, 200000, 200000, 200000, 200000, 200000, 200000, 200000, 200000, 200000, 200000, 200000, 200000, 200000, 200000, 200000, 200000, 200000, 200000, 200000, 200000, 200000, 200000, 200000, 200000, 200000, 200000, 200000, 200000, 200000, 200000, 200000, 200000, 200000, 200000, 200000, 200000, 200000, 200000, 200000, 200000, 200000, 200000, 200000, 200000, 200000, 200000, 200000, 200000, 200000, 200000, 200000, 200000, 200000, 200000, 200000, 200000, 200000, 200000, 200000, 200000, 200000, 200000, 200000, 200000, 200000, 200000, 200000, 200000, 200000, 200000, 200000, 200000, 200000],
             borderColor: '#475569',
             borderDash: [5, 5],
             fill: false,
